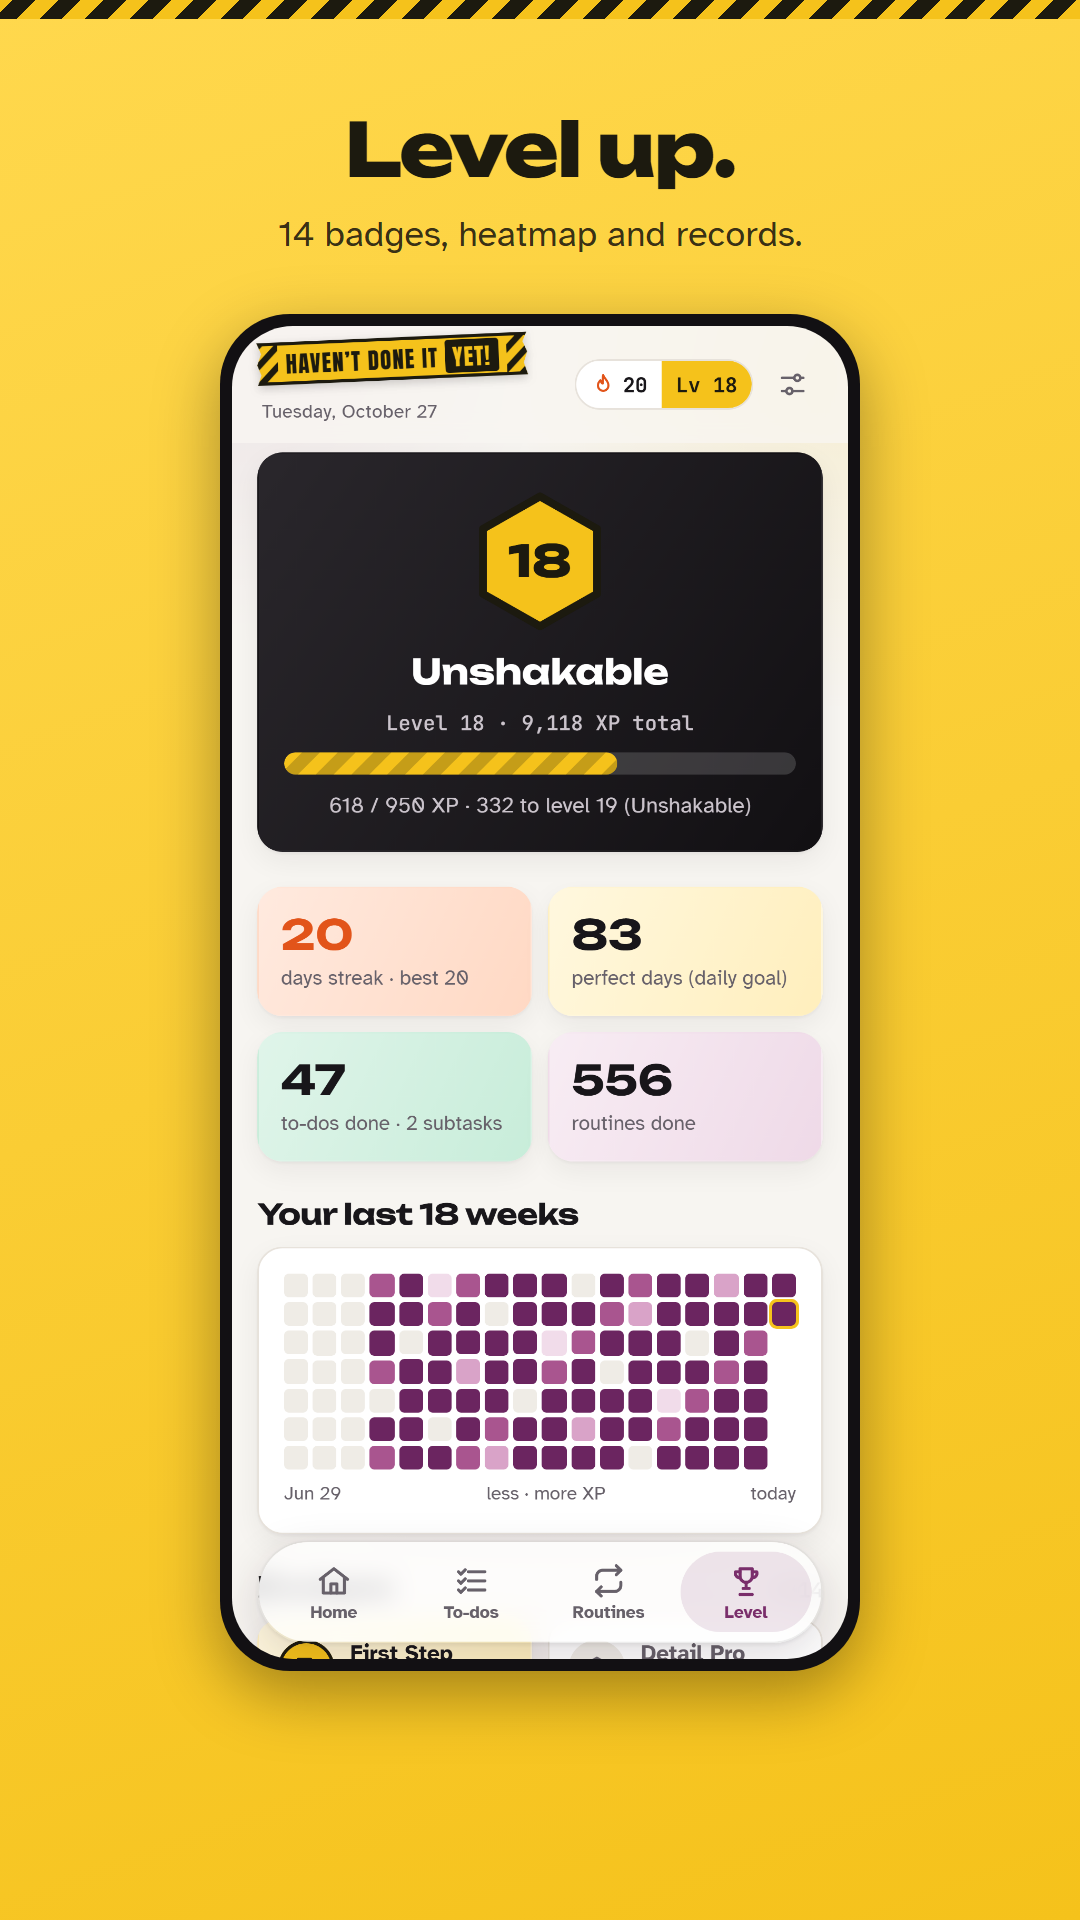
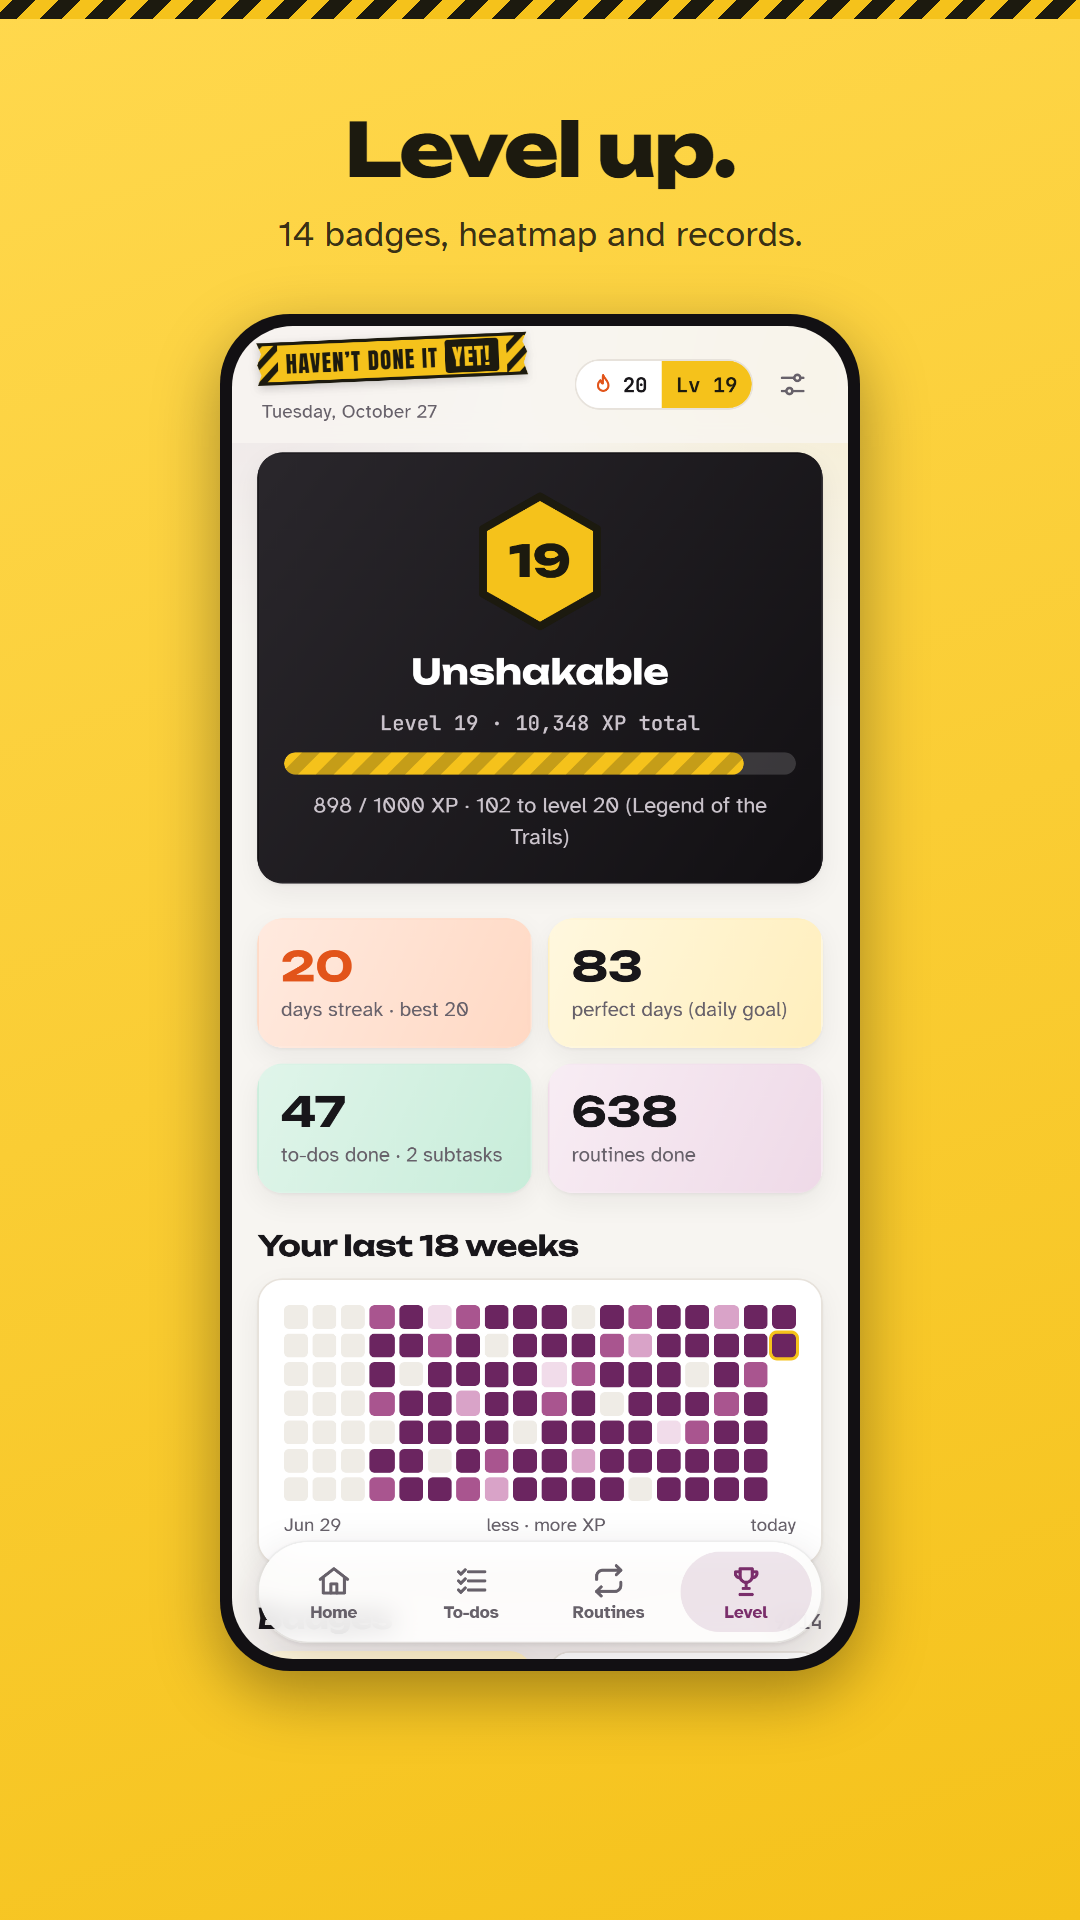
Routinen nach Tageszeit: Morgens, Mittags, Abends
- Routinen haben optional eine Tageszeit; Auswahl im Formular,
  Vorschlag Lesen startet abends
- Routinen-Tab und Startseite gruppieren nach Tageszeit, die aktuelle
  Gruppe ist mit jetzt markiert; ohne Tageszeiten bleibt die Liste flach
- Import übernimmt gültige Tageszeiten; Tests und E2E-Schritt dazu
- Store-Screenshots mit Beispiel-Tageszeiten neu erzeugt

diff --git a/src/features/routines/RoutineCard.tsx b/src/features/routines/RoutineCard.tsx
@@ -2,15 +2,15 @@ import { router } from 'expo-router';
 import { useTranslation } from 'react-i18next';
 import { Pressable, ScrollView, View } from 'react-native';
 import { useStore } from '../../data/AppStore';
-import { daysLeft } from '../../game/dates';
+import { daysLeft, hourNow } from '../../game/dates';
 import { GOAL_BONUS, MAX_GOAL, ROUT_BONUS, ROUT_XP } from '../../game/rules';
-import { isToggleOnly, periodCount, routineReview, targetOf, todayCount } from '../../game/routines';
+import { groupBySlot, isToggleOnly, periodCount, routineReview, slotAt, targetOf, todayCount, type SlotGroupKey } from '../../game/routines';
 import type { Routine } from '../../game/types';
 import { shortPeriod } from '../../i18n/format';
 import { useTheme } from '../../theme/ThemeProvider';
 import { fonts, radius } from '../../theme/tokens';
 import { Ring } from '../../ui/graphics';
-import { Icon } from '../../ui/Icon';
+import { Icon, type IconName } from '../../ui/Icon';
 import { useSheet } from '../../ui/overlays';
 import { Card, Chip, IconButton, LinkButton, SegBar, Stepper } from '../../ui/primitives';
 import { T } from '../../ui/Text';
@@ -201,5 +201,57 @@ export function GoalCard({ editable }: { editable?: boolean }) {
         </View>
       </View>
     </Card>
+  );
+}
+
+const SLOT_ICON: Record<SlotGroupKey, IconName> = { morning: 'sunrise', midday: 'sun', evening: 'moon', any: 'clock' };
+
+/** Routines grouped by time of day; a flat list when no routine has a time of day. */
+export function RoutineGroups({ list, mini }: { list: Routine[]; mini?: boolean }) {
+  const { t } = useTranslation();
+  const { c } = useTheme();
+  const { stats, today } = useStore();
+  const groups = groupBySlot(list);
+  const now = slotAt(hourNow());
+  if (groups.length === 1 && groups[0].key === 'any') {
+    return (
+      <View style={{ gap: 10 }}>
+        {groups[0].items.map((r) => (
+          <RoutineCard key={r.id} routine={r} mini={mini} />
+        ))}
+      </View>
+    );
+  }
+  return (
+    <View style={{ gap: 14 }}>
+      {groups.map((g) => {
+        const met = g.items.filter((r) => periodCount(stats, r, today) >= targetOf(r)).length;
+        const isNow = g.key === now;
+        return (
+          <View key={g.key} style={{ gap: 8 }}>
+            <View accessibilityRole="header" style={{ flexDirection: 'row', alignItems: 'center', gap: 8, paddingHorizontal: 2 }}>
+              <Icon name={SLOT_ICON[g.key]} size={18} color={isNow ? c.plumText : c.muted} />
+              <T v="smallBold" color={isNow ? c.ink : c.muted}>
+                {t(`routines.slot.${g.key}`)}
+              </T>
+              {isNow ? (
+                <View style={{ backgroundColor: c.tabActive, borderRadius: 99, paddingHorizontal: 8, paddingVertical: 1 }}>
+                  <T v="tiny" color={c.plumText} style={{ fontFamily: fonts.bodyBold, fontSize: 12 }}>
+                    {t('routines.slot.now')}
+                  </T>
+                </View>
+              ) : null}
+              <View style={{ flex: 1 }} />
+              <T v="mono" muted style={{ fontSize: 12 }}>
+                {met}/{g.items.length}
+              </T>
+            </View>
+            {g.items.map((r) => (
+              <RoutineCard key={r.id} routine={r} mini={mini} />
+            ))}
+          </View>
+        );
+      })}
+    </View>
   );
 }

diff --git a/src/features/routines/RoutineForm.tsx b/src/features/routines/RoutineForm.tsx
@@ -3,6 +3,7 @@ import { useTranslation } from 'react-i18next';
 import { Pressable, View } from 'react-native';
 import { useStore, type RoutineDraft } from '../../data/AppStore';
 import { ROUT_BONUS, ROUT_XP, ROUTINE_SCOPES } from '../../game/rules';
+import { ROUTINE_SLOTS, type SlotGroupKey } from '../../game/routines';
 import type { RoutineScope } from '../../game/types';
 import { useTheme } from '../../theme/ThemeProvider';
 import { SheetHead, useSheet, useToast } from '../../ui/overlays';
@@ -19,7 +20,7 @@ export const SUGGESTIONS: (Omit<RoutineDraft, 'title'> & { key: string })[] = [
   { key: 'run', emoji: '🏃', scope: 'woche', target: 3 },
   { key: 'toenails', emoji: '🦶', scope: 'monat', target: 1 },
   { key: 'water', emoji: '💧', scope: 'tag', target: 8 },
-  { key: 'read', emoji: '📚', scope: 'tag', target: 1 },
+  { key: 'read', emoji: '📚', scope: 'tag', target: 1, slot: 'evening' },
   { key: 'tidy', emoji: '🧹', scope: 'woche', target: 1 },
   { key: 'dentist', emoji: '🦷', scope: 'jahr', target: 2 },
 ];
@@ -35,6 +36,7 @@ export function RoutineForm({ id, preset, close }: { id: string | null; preset?:
   const [title, setTitle] = useState(prev?.title ?? preset?.title ?? '');
   const [emoji, setEmoji] = useState(prev?.emoji ?? preset?.emoji ?? '🏃');
   const [scope, setScope] = useState<RoutineScope>(prev?.scope ?? preset?.scope ?? ui.routScope);
+  const [slot, setSlot] = useState<SlotGroupKey>(prev?.slot ?? preset?.slot ?? 'any');
   const [target, setTarget] = useState(prev ? Math.max(1, prev.target) : (preset?.target ?? (ui.routScope === 'woche' ? 3 : 1)));
   const [err, setErr] = useState(false);
   const [gridW, setGridW] = useState(0);
@@ -47,7 +49,7 @@ export function RoutineForm({ id, preset, close }: { id: string | null; preset?:
       setErr(true);
       return;
     }
-    actions.saveRoutine(id, { title: name.slice(0, 80), emoji, scope, target });
+    actions.saveRoutine(id, { title: name.slice(0, 80), emoji, scope, target, slot: slot === 'any' ? undefined : slot });
     if (id) toast(t('toast.saved'));
     else {
       toast(t('toast.routineCreated'));
@@ -110,6 +112,14 @@ export function RoutineForm({ id, preset, close }: { id: string | null; preset?:
         </Field>
         <Field label={t('routineForm.rhythm')}>
           <Segmented label={t('routineForm.rhythm')} value={scope} onChange={setScope} options={ROUTINE_SCOPES.map((k) => ({ key: k, label: t(`routines.scope.${k}`) }))} />
+        </Field>
+        <Field label={t('routineForm.slot')}>
+          <Segmented<SlotGroupKey>
+            label={t('routineForm.slot')}
+            value={slot}
+            onChange={setSlot}
+            options={(['any', ...ROUTINE_SLOTS] as SlotGroupKey[]).map((k) => ({ key: k, label: t(`routines.slot.${k}`) }))}
+          />
         </Field>
         <Field label={t('routineForm.target')}>
           <Card pad={12}>

diff --git a/src/game/routines.ts b/src/game/routines.ts
@@ -1,6 +1,6 @@
 import type { Stats } from './compute';
 import { periodKey, shiftPeriod } from './dates';
-import type { AppData, DayKey, Routine, RoutineScope } from './types';
+import type { AppData, DayKey, Routine, RoutineScope, RoutineSlot } from './types';
 
 export const targetOf = (r: Routine) => Math.max(1, r.target || 1);
 
@@ -60,4 +60,24 @@ export function scopeSummary(st: Stats, list: Routine[], scope: RoutineScope, to
 /** Routines still open in their current period, per scope (badge counts on the tabs). */
 export function openRoutineCount(st: Stats, list: Routine[], scope: RoutineScope, today: DayKey): number {
   return list.filter((r) => r.scope === scope && periodCount(st, r, today) < targetOf(r)).length;
+}
+
+export const ROUTINE_SLOTS: RoutineSlot[] = ['morning', 'midday', 'evening'];
+export type SlotGroupKey = RoutineSlot | 'any';
+
+/** Morning until 11, midday until 17, evening after that (and through the night). */
+export function slotAt(hour: number): RoutineSlot {
+  if (hour >= 4 && hour < 11) return 'morning';
+  if (hour >= 11 && hour < 17) return 'midday';
+  return 'evening';
+}
+
+/**
+ * Groups routines by time of day in the order morning, midday, evening, any time.
+ * Returns a single 'any' group when no routine has a time of day, so the list stays flat.
+ */
+export function groupBySlot(list: Routine[]): { key: SlotGroupKey; items: Routine[] }[] {
+  if (!list.some((r) => r.slot)) return list.length ? [{ key: 'any', items: list }] : [];
+  const keys: SlotGroupKey[] = [...ROUTINE_SLOTS, 'any'];
+  return keys.map((key) => ({ key, items: list.filter((r) => (r.slot ?? 'any') === key) })).filter((g) => g.items.length);
 }

diff --git a/src/game/__tests__/game.test.ts b/src/game/__tests__/game.test.ts
@@ -19,7 +19,10 @@ import {
   todayKey,
   todoXp,
   toggleSub,
+  groupBySlot,
+  slotAt,
 } from '../index';
+import { normalizeImport } from '../../data/schema';
 import { emptyData, randomHistory, routine, todo } from './fixtures';
 import { prototypeCompute } from './prototype-reference.js';
 
@@ -216,5 +219,30 @@ describe('matches the prototype', () => {
       expect([...st.unlocked].sort()).toEqual([...ref.unlocked].sort());
       expect(Object.fromEntries(st.xpByDay)).toEqual(Object.fromEntries(ref.xpByDay));
     }
+  });
+});
+
+describe('time of day', () => {
+  it('maps hours to morning, midday and evening', () => {
+    expect([4, 10, 11, 16, 17, 23, 2].map(slotAt)).toEqual(['morning', 'morning', 'midday', 'midday', 'evening', 'evening', 'evening']);
+  });
+
+  it('groups routines by time of day, flat when none has one', () => {
+    const a = routine({ id: 'a' });
+    const b = routine({ id: 'b', slot: 'evening' });
+    const m = routine({ id: 'm', slot: 'morning' });
+    expect(groupBySlot([a])).toEqual([{ key: 'any', items: [a] }]);
+    expect(groupBySlot([a, b, m]).map((g) => [g.key, g.items.map((r) => r.id)])).toEqual([
+      ['morning', ['m']],
+      ['evening', ['b']],
+      ['any', ['a']],
+    ]);
+    expect(groupBySlot([])).toEqual([]);
+  });
+
+  it('keeps a valid time of day on import and drops unknown ones', () => {
+    const data = normalizeImport({ routines: { a: { title: 'A', scope: 'tag', target: 1, slot: 'evening' }, b: { title: 'B', slot: 'night' } } });
+    expect(data.routines.a.slot).toBe('evening');
+    expect(data.routines.b.slot).toBeUndefined();
   });
 });

diff --git a/e2e/app.spec.ts b/e2e/app.spec.ts
@@ -37,6 +37,14 @@ test('to-do with subtasks, routine, tabs, language switch and reload', async ({ 
   await page.getByRole('button', { name: 'Wasser trinken (Glas) geschafft, plus 10 XP' }).click();
   await expect(page.getByText('+10 XP', { exact: true })).toBeVisible();
 
+  // A morning routine splits the list into time-of-day groups.
+  await page.getByRole('button', { name: 'Neue Routine' }).click();
+  await page.getByRole('textbox', { name: 'Was willst du regelmäßig tun?' }).fill('Meditieren');
+  await page.getByRole('radio', { name: 'Morgens' }).click();
+  await page.getByRole('button', { name: 'Anlegen' }).click();
+  await expect(page.getByRole('heading', { name: /Morgens/ })).toBeVisible();
+  await expect(page.getByRole('heading', { name: /Jederzeit/ })).toBeVisible();
+
   // Level: 10 (to-do) + 2×5 (subtasks) + 10 (routine) = 30 XP.
   await page.getByRole('tab', { name: 'Level' }).click();
   await expect(page.getByText('Level 1 · 30 XP gesamt')).toBeVisible();

diff --git a/src/features/routines/RoutinesScreen.tsx b/src/features/routines/RoutinesScreen.tsx
@@ -11,7 +11,7 @@ import { Chip, Empty, ProgressBar, Segmented, TintCard } from '../../ui/primitiv
 import { T } from '../../ui/Text';
 import { useUi } from '../../ui/uiState';
 import { Screen } from '../shell/Shell';
-import { GoalCard, RoutineCard } from './RoutineCard';
+import { GoalCard, RoutineGroups } from './RoutineCard';
 import { RoutineForm, SUGGESTIONS } from './RoutineForm';
 
 export default function RoutinesScreen() {
@@ -63,9 +63,7 @@ export default function RoutinesScreen() {
               </View>
             </View>
           </TintCard>
-          {list.map((r) => (
-            <RoutineCard key={r.id} routine={r} />
-          ))}
+          <RoutineGroups list={list} />
         </View>
       ) : (
         <Empty title={t(`routines.empty.${scope}`)} text={t('routines.emptyText')}>

diff --git a/src/features/start/StartScreen.tsx b/src/features/start/StartScreen.tsx
@@ -22,7 +22,7 @@ import { Button, Card, Checkbox, LinkButton, SectionHead, TintCard } from '../..
 import { Rich, T, safe } from '../../ui/Text';
 import { useUi } from '../../ui/uiState';
 import { PlayerCard } from '../level/LevelScreen';
-import { GoalCard, RoutineCard } from '../routines/RoutineCard';
+import { GoalCard, RoutineGroups } from '../routines/RoutineCard';
 import { Screen } from '../shell/Shell';
 import { TodoForm } from '../todos/sheets';
 
@@ -212,9 +212,7 @@ function TodaySection() {
       </Card>
       <Hints />
       <GoalCard />
-      {daily.map((r) => (
-        <RoutineCard key={r.id} routine={r} mini />
-      ))}
+      <RoutineGroups list={daily} mini />
     </View>
   );
 }

diff --git a/src/ui/Icon.tsx b/src/ui/Icon.tsx
@@ -33,6 +33,10 @@ const ICONS: Record<string, ReactElement[]> = {
   move: [P('M5 12h14M13 6l6 6-6 6')],
   chev: [P('M9 6l6 6-6 6')],
   download: [P('M12 4v11M7 10l5 5 5-5'), P('M5 20h14')],
+  sunrise: [P('M12 3v4'), P('M5.6 9.6l1.4 1.4M18.4 9.6l-1.4 1.4'), P('M3 18h18'), P('M7 18a5 5 0 0 1 10 0'), P('M8 21h8')],
+  sun: [<Circle cx={12} cy={12} r={4} />, P('M12 2v2M12 20v2M4.9 4.9l1.4 1.4M17.7 17.7l1.4 1.4M2 12h2M20 12h2M4.9 19.1l1.4-1.4M17.7 6.3l1.4-1.4')],
+  moon: [P('M20 14.5A8 8 0 1 1 9.5 4a6.5 6.5 0 0 0 10.5 10.5z')],
+  clock: [<Circle cx={12} cy={12} r={9} />, P('M12 7v5l3 2')],
   upload: [P('M12 20V9M7 14l5-5 5 5'), P('M5 4h14')],
 };
 

diff --git a/src/game/types.ts b/src/game/types.ts
@@ -2,6 +2,8 @@
 
 export type Scope = 'ewig' | 'tag' | 'woche' | 'monat' | 'jahr';
 export type RoutineScope = 'tag' | 'woche' | 'monat' | 'jahr';
+/** Time of day a routine belongs to. Missing = any time. */
+export type RoutineSlot = 'morning' | 'midday' | 'evening';
 export type PeriodScope = RoutineScope;
 export type Diff = 1 | 2 | 3;
 /** Calendar day in the user's time zone, "YYYY-MM-DD". */
@@ -38,6 +40,7 @@ export interface Routine {
   scope: RoutineScope;
   /** Times per period, >= 1. */
   target: number;
+  slot?: RoutineSlot;
   archived?: boolean;
   createdAt: string;
   order: number;

diff --git a/src/data/AppStore.tsx b/src/data/AppStore.tsx
@@ -12,7 +12,7 @@ import { localStore } from './storage';
 import { SETTINGS_ID, type Collection } from './storage.types';
 
 export type TodoDraft = Omit<Todo, 'id' | 'createdAt' | 'order' | 'done' | 'doneOn'> & Partial<Pick<Todo, 'done' | 'doneOn'>>;
-export type RoutineDraft = Pick<Routine, 'title' | 'emoji' | 'scope' | 'target'>;
+export type RoutineDraft = Pick<Routine, 'title' | 'emoji' | 'scope' | 'target' | 'slot'>;
 
 interface Store {
   ready: boolean;

diff --git a/src/data/schema.ts b/src/data/schema.ts
@@ -89,6 +89,7 @@ function normRoutine(id: string, raw: unknown): Routine | null {
     createdAt: str(raw.createdAt, new Date(0).toISOString()),
     order: Number(raw.order) || 0,
   };
+  if (raw.slot === 'morning' || raw.slot === 'midday' || raw.slot === 'evening') r.slot = raw.slot;
   if (raw.archived === true) r.archived = true;
   return r;
 }
